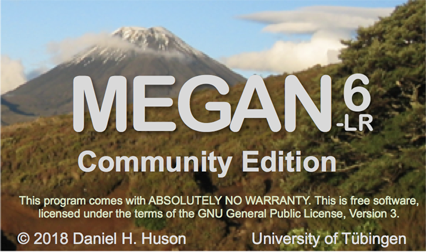
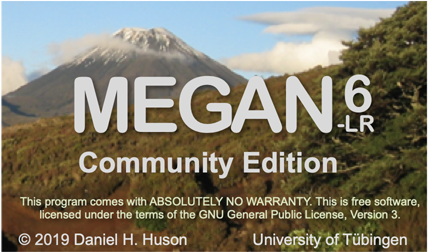
updated splash screen, fixed size limitation in SAM parser

diff --git a/src/megan/parsers/blast/SAM2SAMIterator.java b/src/megan/parsers/blast/SAM2SAMIterator.java
@@ -35,7 +35,7 @@ import java.util.TreeSet;
  * Daniel Huson, 2.2017
  */
 public class SAM2SAMIterator extends SAMIteratorBase implements ISAMIterator {
-    private final Pair<byte[], Integer> matchesTextAndLength = new Pair<>(new byte[10000], 0);
+    private final Pair<byte[], Integer> matchesTextAndLength = new Pair<>(new byte[10000000], 0);
 
     private final BlastMode blastMode;
 
